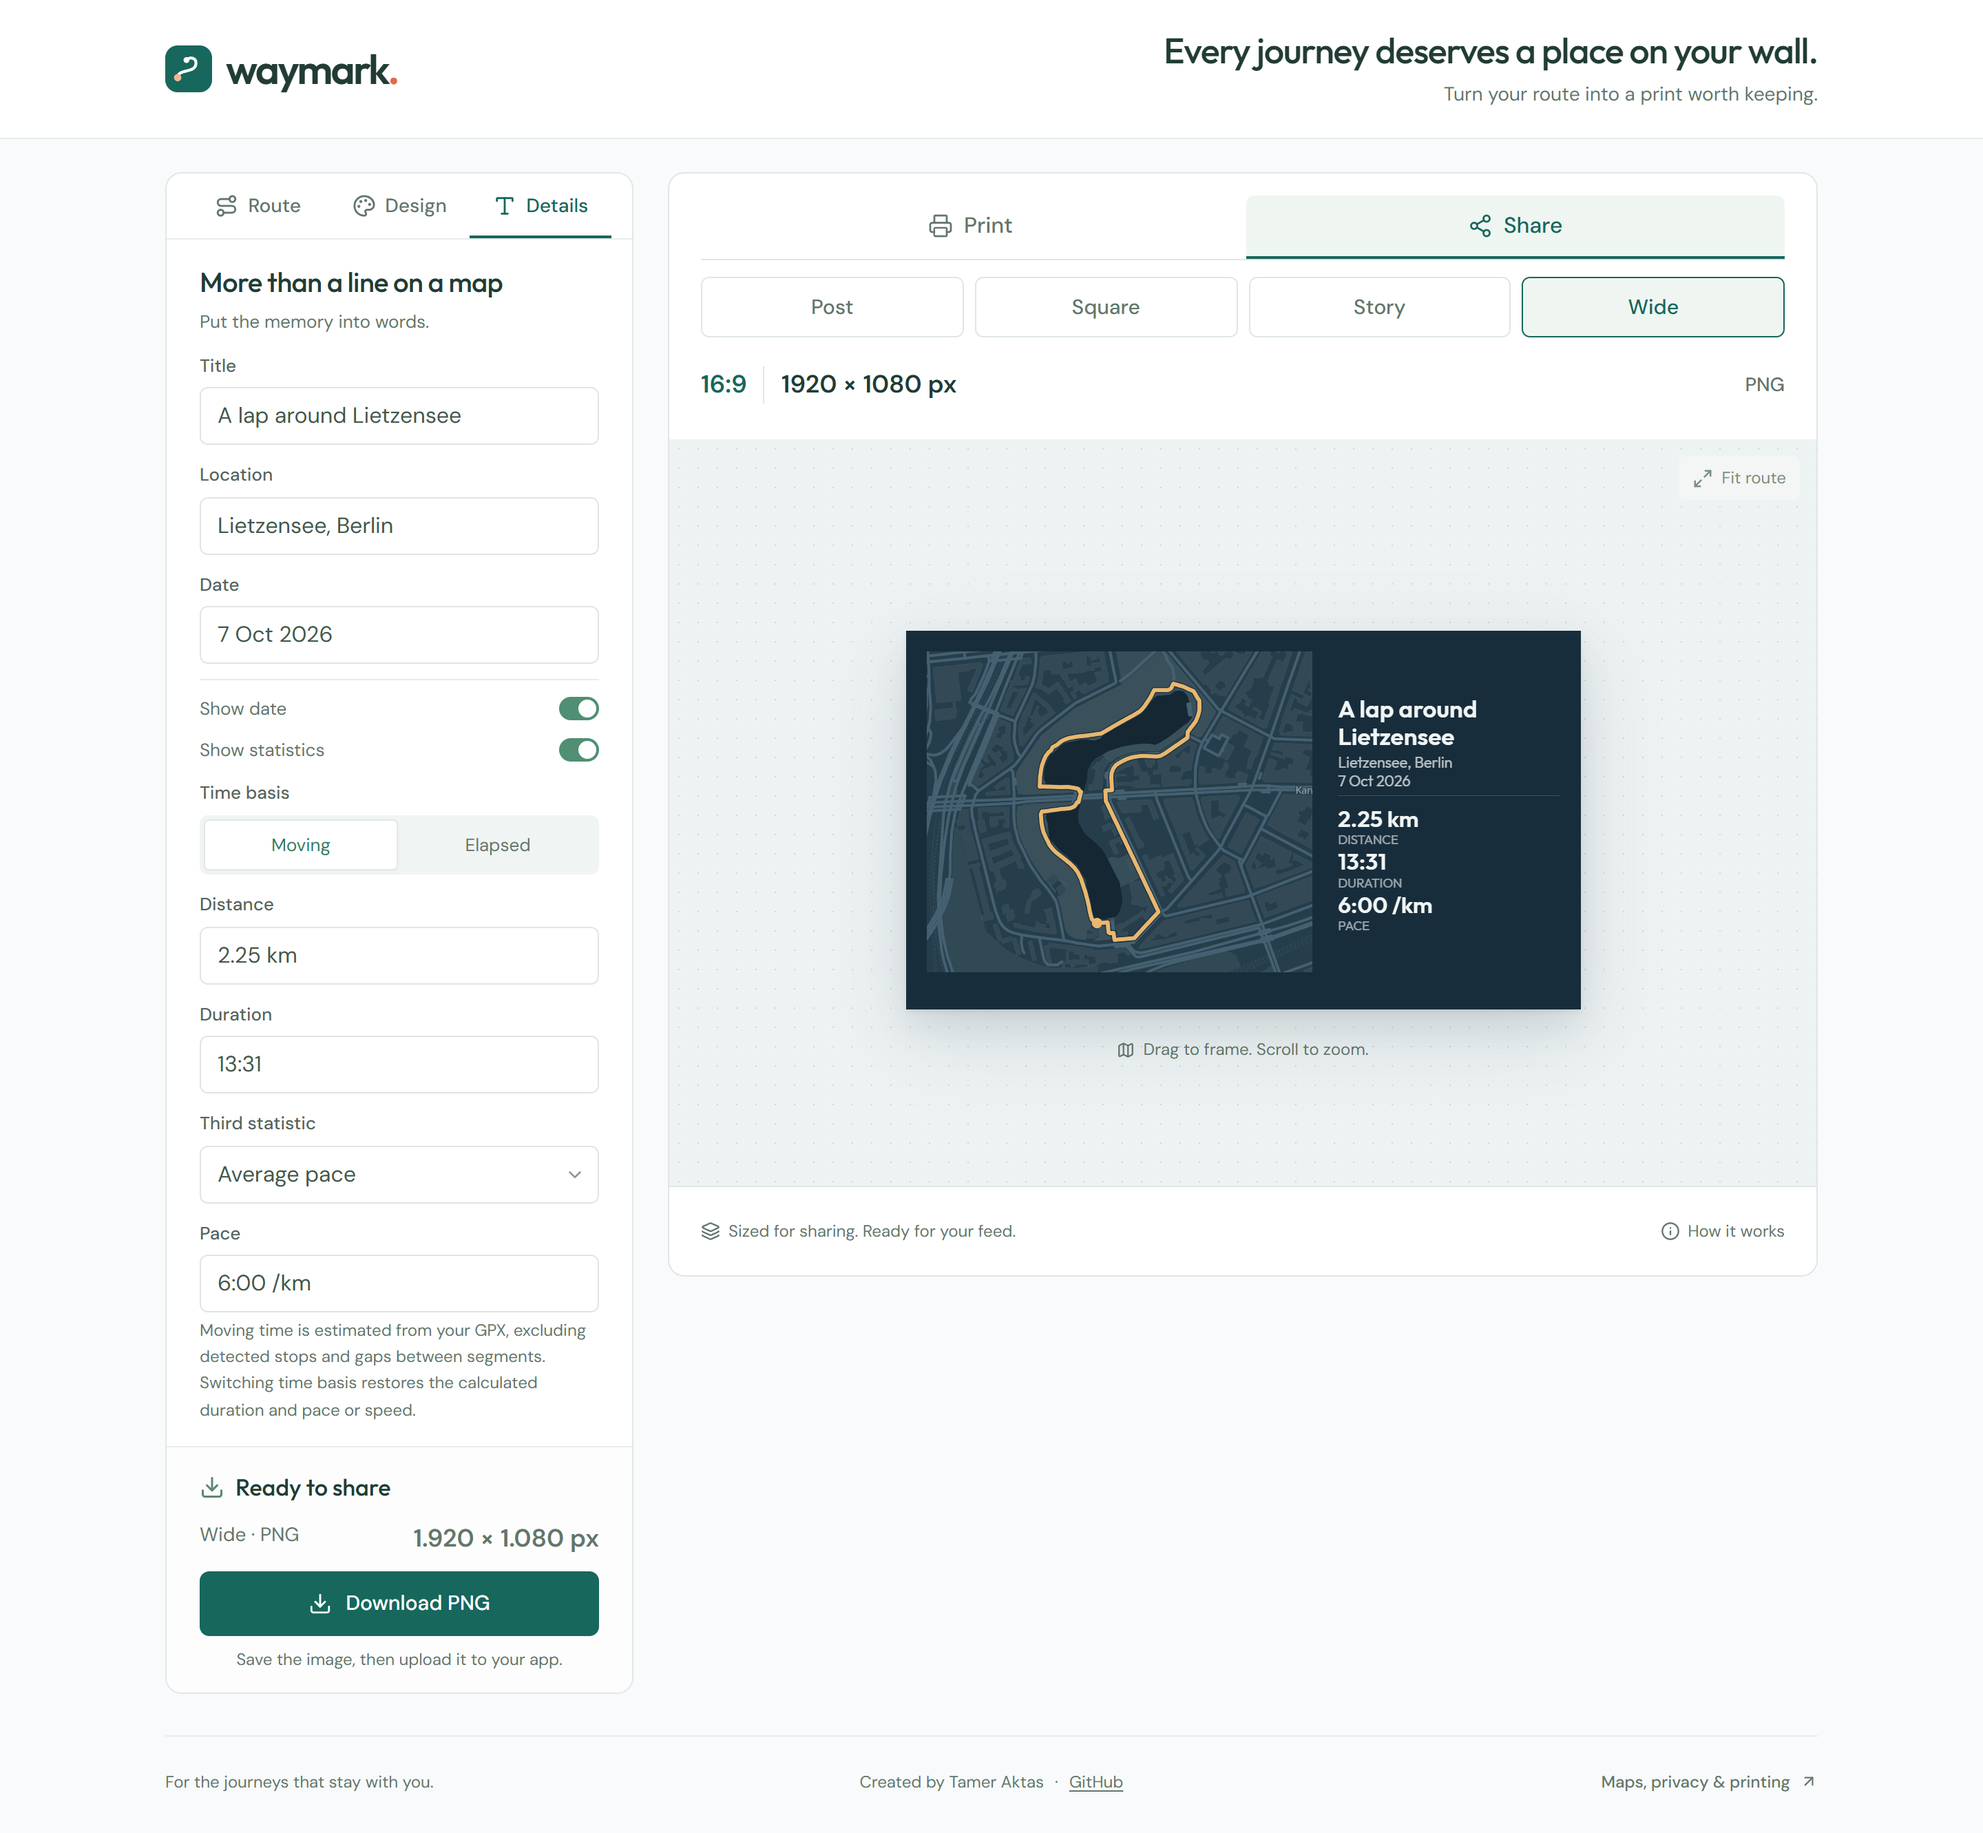
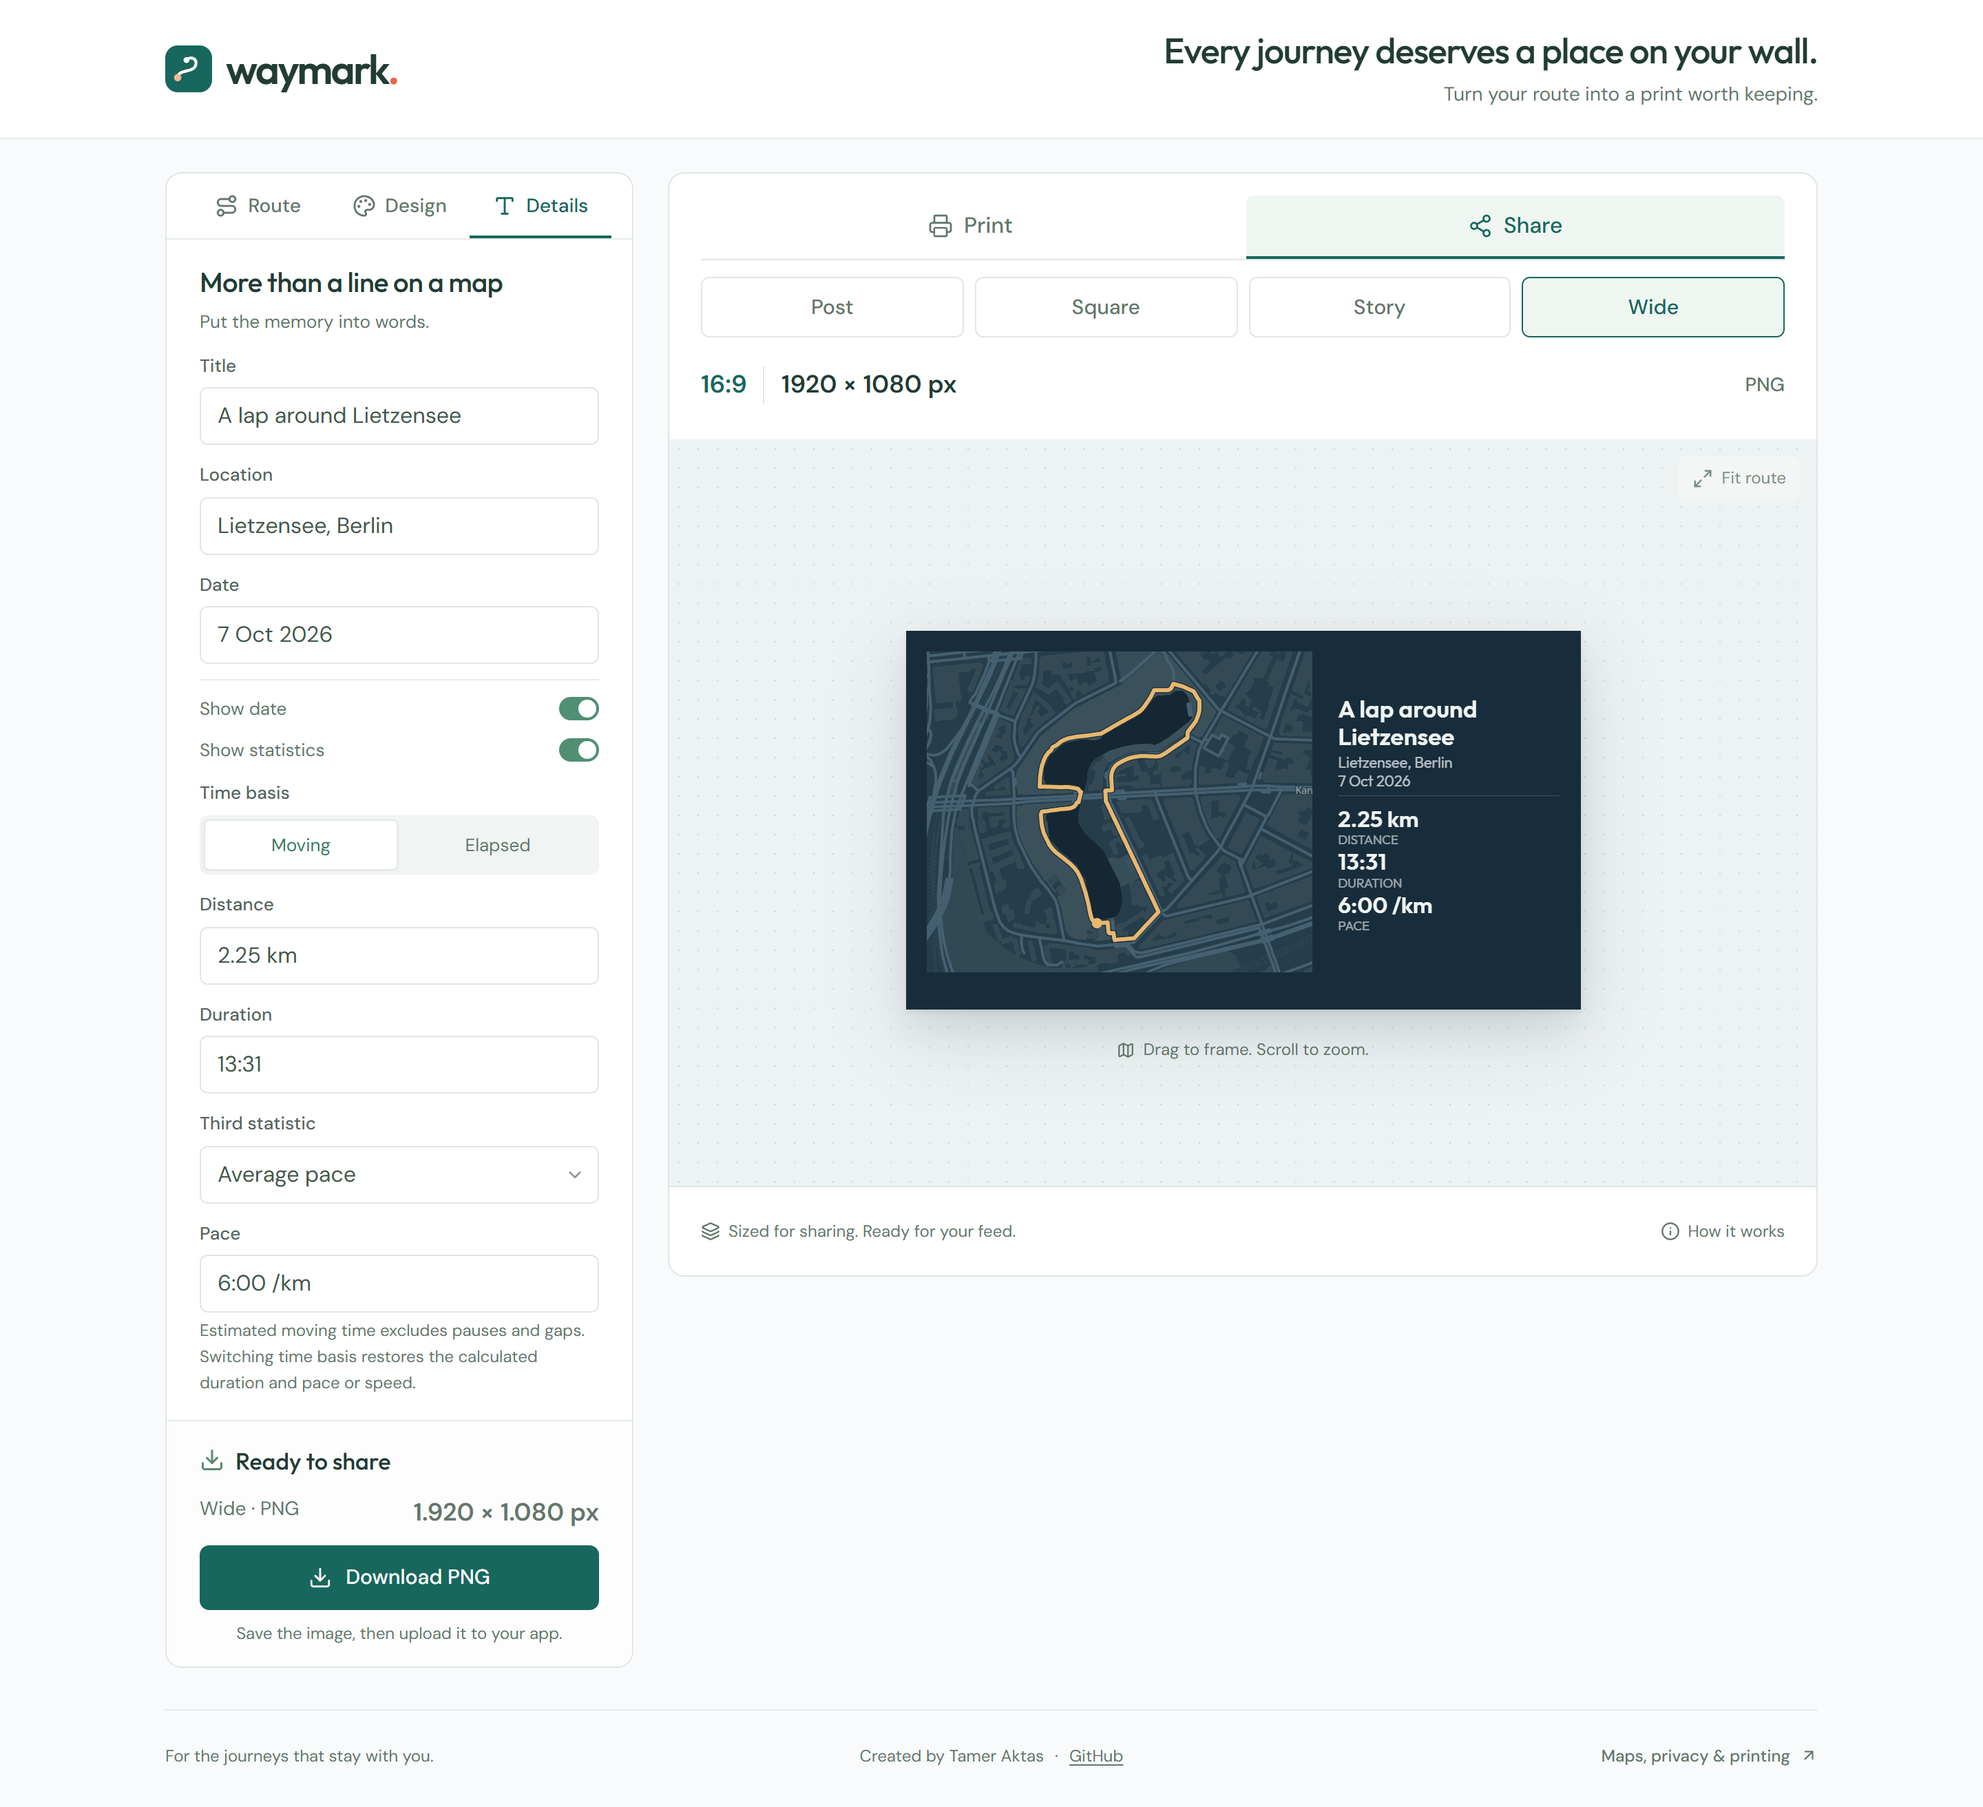
Update moving time descriptions for clarity in PrintEditor and browser QA script

diff --git a/src/components/PrintEditor.tsx b/src/components/PrintEditor.tsx
@@ -624,7 +624,7 @@ export default function PrintEditor() {
                         {!timingAvailable
                           ? "This GPX has missing or invalid timestamps. Enter your own duration and pace or speed."
                           : settings.timeBasis === "moving"
-                            ? "Moving time is estimated from your GPX, excluding detected stops and gaps between segments."
+                            ? "Estimated moving time excludes pauses and gaps."
                             : "Elapsed time includes stops and recording gaps."}{" "}
                         Switching time basis restores the calculated duration
                         and pace or speed.
